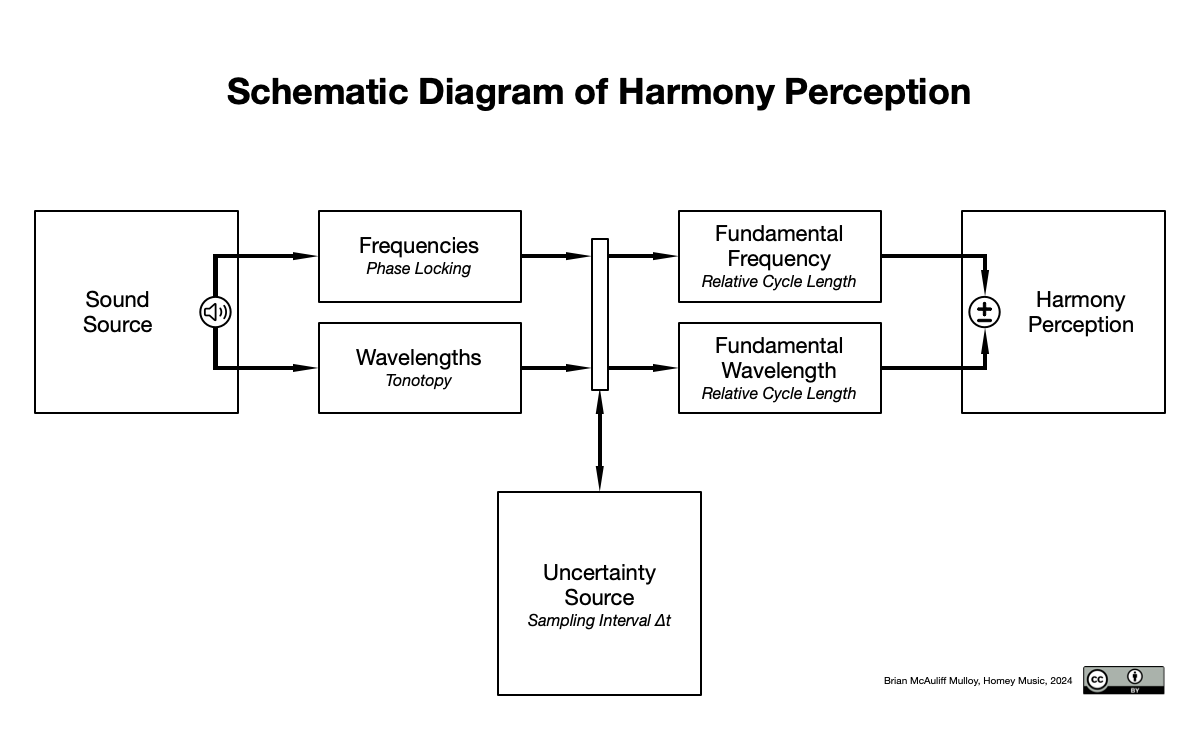
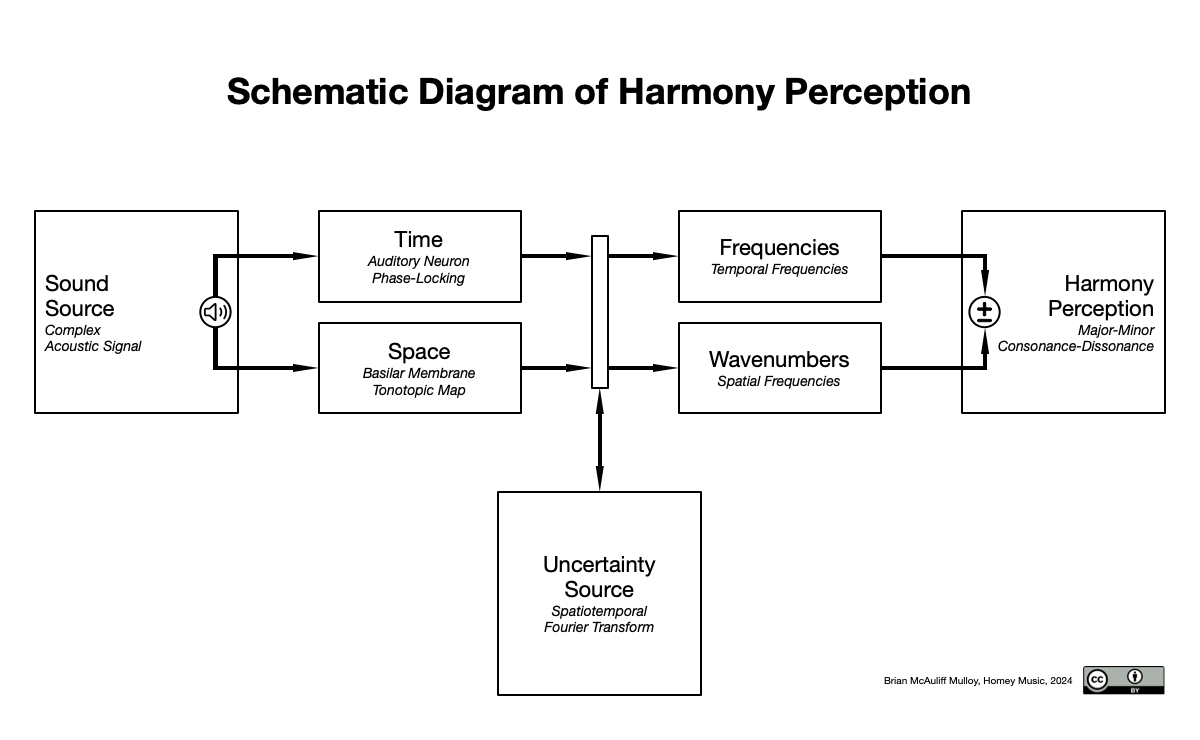
diagram update

diff --git a/README.md b/README.md
@@ -3,6 +3,14 @@ MaMi.CoDi: A Model of Harmony Perception
 
 # Harmony Perception Overview
 
+$$\mathbf{H} = (h_f - h_\lambda) \mathbf{\hat{i}} + (h_f + h_\lambda) \mathbf{\hat{j}}$$
+
+$$h_f = log_2\left(ALCD\left(\left\{ \frac{f_n}{f_{min}} \pm \sigma_f \right\}_{n=1}^{N}\right)\right)$$
+
+$$h_\lambda = log_2\left(ALCD\left(\left\{ \frac{\lambda_n}{\lambda_{min}} \pm \sigma_\lambda \right\}_{n=1}^{N}\right)\right)$$
+
+$$\sigma_f\sigma_\lambda \le \frac{1}{4 \pi}$$
+
 Below is a schematic diagram of the MaMi.CoDi model of harmony
 perception.
 
